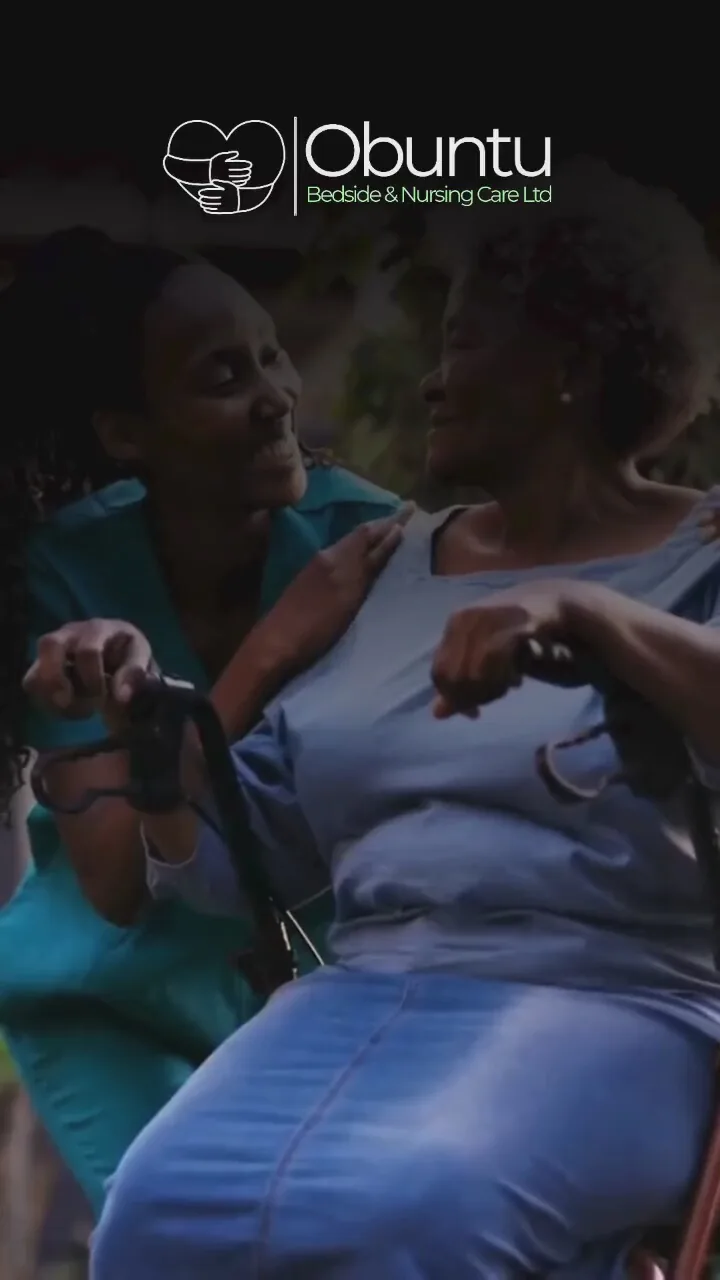
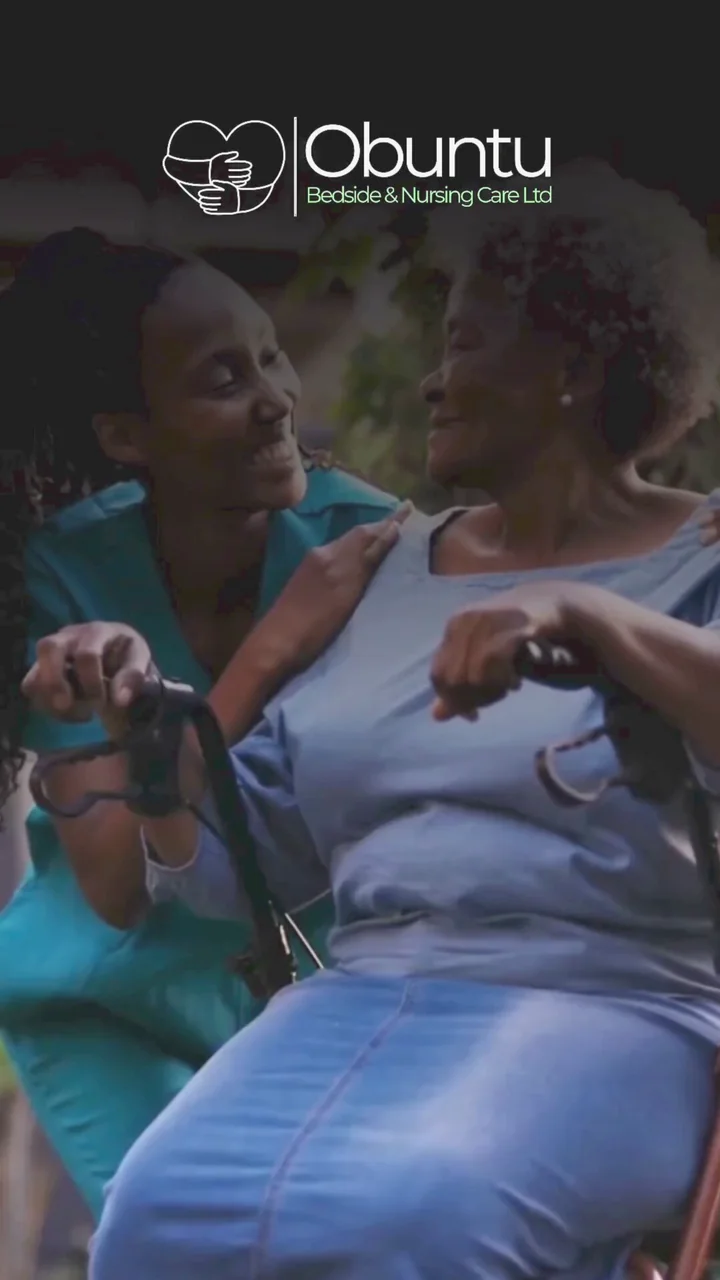
Enhance video playback UI with duration display and improved styling; update video posters

diff --git a/assets/css/styles.css b/assets/css/styles.css
@@ -743,23 +743,50 @@ p { text-wrap: pretty; }
 /* Videos: a wide message beside a tall promo, sized to the same height. Poster + play button until played (main.js). */
 .watch { display: grid; grid-template-columns: minmax(0, 3.15fr) minmax(0, 1fr); gap: clamp(20px, 3vw, 40px); align-items: start; margin-top: clamp(32px, 5vw, 56px); }
 .vid { display: grid; gap: 14px; margin: 0; }
-.vid-frame { position: relative; isolation: isolate; border-radius: var(--r-xl); overflow: hidden; background: var(--teal-950); box-shadow: var(--shadow-md); }
+.vid-frame { position: relative; isolation: isolate; border-radius: var(--r-xl); overflow: hidden; background: var(--teal-950); box-shadow: var(--shadow-lg); }
+.vid-frame::after { content: ""; position: absolute; inset: 0; z-index: 2; border-radius: inherit; box-shadow: inset 0 0 0 1px rgba(255, 255, 255, 0.13); pointer-events: none; } /* hairline edge so dark posters hold their shape */
 .vid-wide .vid-frame { aspect-ratio: 848 / 478; }
 .vid-tall .vid-frame { aspect-ratio: 9 / 16; }
-.vid video { display: block; width: 100%; height: 100%; object-fit: cover; background: var(--teal-950); }
+.vid video { display: block; width: 100%; height: 100%; object-fit: cover; background: var(--teal-950); transition: transform 700ms var(--ease-out); }
+@media (hover: hover) and (pointer: fine) { .vid:not(.is-playing) .vid-frame:hover video { transform: scale(1.035); } }
+
+/* Play button: a frosted-glass disc that fills white on hover, plus a duration chip. Rendered by JS-enabled pages only. */
 .vid-play {
-  position: absolute; inset: 0; z-index: 1; display: none; place-items: center; padding: 0; border: 0; cursor: pointer; color: var(--teal-800);
-  background: linear-gradient(180deg, rgba(1, 31, 31, 0) 50%, rgba(1, 31, 31, 0.42));
+  position: absolute; inset: 0; z-index: 1; display: none; place-items: center; padding: 0; border: 0; cursor: pointer; color: #fff;
+  background: linear-gradient(180deg, rgba(1, 31, 31, 0) 46%, rgba(1, 31, 31, 0.55)); -webkit-tap-highlight-color: transparent;
 }
 .js .vid-play { display: grid; }
 .vid.is-playing .vid-play { display: none; }
-.vid-play .ic {
-  box-sizing: content-box; width: 26px; height: 26px; padding: 22px 19px 22px 25px; border-radius: 50%; background: rgba(255, 255, 255, 0.94);
-  box-shadow: 0 14px 36px -8px rgba(1, 31, 31, 0.6); transition: transform 240ms var(--ease-out);
+.vid-disc {
+  position: relative; display: grid; place-items: center; width: 88px; height: 88px; border-radius: 50%; color: #fff;
+  background: rgba(255, 255, 255, 0.18); -webkit-backdrop-filter: blur(14px) saturate(160%); backdrop-filter: blur(14px) saturate(160%);
+  box-shadow: inset 0 0 0 1px rgba(255, 255, 255, 0.55), inset 0 1px 0 rgba(255, 255, 255, 0.4), 0 18px 44px -12px rgba(1, 31, 31, 0.7);
+  transition: transform 300ms var(--ease-out), background-color 200ms ease, color 200ms ease;
 }
-@media (hover: hover) and (pointer: fine) { .vid-play:hover .ic { transform: scale(1.07); } }
-.vid-play:active .ic { transform: scale(0.95); }
-.vid-play:focus-visible { outline-offset: -6px; border-radius: var(--r-xl); }
+.vid-disc::before { /* ring that opens up on hover */
+  content: ""; position: absolute; inset: -10px; border-radius: 50%; border: 1px solid rgba(255, 255, 255, 0.5);
+  opacity: 0; transform: scale(0.88); transition: opacity 260ms ease, transform 420ms var(--ease-out);
+}
+.vid-disc .ic { width: 32px; height: 32px; margin-left: 4px; } /* the triangle's visual centre sits left of its box */
+.vid-tall .vid-disc { width: 72px; height: 72px; }
+.vid-tall .vid-disc .ic { width: 26px; height: 26px; margin-left: 3px; }
+@media (hover: hover) and (pointer: fine) {
+  .vid-play:hover .vid-disc { transform: scale(1.07); background: #fff; color: var(--teal-800); }
+  .vid-play:hover .vid-disc::before { opacity: 1; transform: none; }
+}
+.vid-play:active .vid-disc { transform: scale(0.94); }
+.vid-play:focus-visible { outline: 3px solid #fff; outline-offset: -8px; border-radius: var(--r-xl); }
+.vid-play:focus-visible .vid-disc { background: #fff; color: var(--teal-800); }
+.vid-time {
+  position: absolute; left: 16px; bottom: 16px; padding: 5px 11px; border-radius: 999px; line-height: 1.2; font-size: 0.8125rem; font-weight: 600;
+  font-variant-numeric: tabular-nums; letter-spacing: -0.005em; background: rgba(1, 31, 31, 0.5);
+  -webkit-backdrop-filter: blur(10px); backdrop-filter: blur(10px); box-shadow: inset 0 0 0 1px rgba(255, 255, 255, 0.16);
+}
+@media (max-width: 600px) {
+  .vid-wide .vid-disc { width: 68px; height: 68px; }
+  .vid-wide .vid-disc .ic { width: 26px; height: 26px; margin-left: 3px; }
+  .vid-time { left: 12px; bottom: 12px; }
+}
 .vid figcaption { display: grid; gap: 2px; padding-inline: 4px; }
 .vid figcaption b { font-size: 1.0625rem; letter-spacing: -0.02em; }
 .vid figcaption span { color: var(--ink-3); font-size: 0.9375rem; }
@@ -841,7 +868,7 @@ p { text-wrap: pretty; }
   .fab, .fab a { transition-duration: 0.01ms; }
   .js [data-reveal] { transform: none; transition: opacity 300ms ease; transition-delay: 0s; }
   .menu, .menu-links a { transform: none; }
-  .svc, .svc-img img, .btn, .faq-icon, .vid-play .ic { transition-duration: 0.01ms; }
+  .svc, .svc-img img, .btn, .faq-icon, .vid-disc, .vid-disc::before, .vid video { transition-duration: 0.01ms; }
   .faq-a { transition: none; }
   ::view-transition-old(root), ::view-transition-new(root) { animation: none; }
 }

diff --git a/about-us/index.html b/about-us/index.html
@@ -96,9 +96,12 @@ try{var p=location.pathname;if(location.protocol.slice(0,4)==="http"&&p.slice(-1
             <source src="../assets/video/obuntu-message.mp4" type="video/mp4">
             <p>Your browser can’t play this video. <a href="../assets/video/obuntu-message.mp4">Download it</a> instead.</p>
           </video>
-          <button class="vid-play" type="button" aria-label="Play video: A message from Obuntu"><svg class="ic ic-fill" aria-hidden="true"><use href="#i-play"/></svg></button>
+          <button class="vid-play" type="button" aria-label="Play video: A message from Obuntu (1 minute 26 seconds)">
+            <span class="vid-disc"><svg class="ic ic-fill" aria-hidden="true"><use href="#i-play"/></svg></span>
+            <span class="vid-time" aria-hidden="true">1:26</span>
+          </button>
         </div>
-        <figcaption><b>A message from Obuntu</b><span>1 min 26 sec</span></figcaption>
+        <figcaption><b>A message from Obuntu</b><span>From the Obuntu team</span></figcaption>
       </figure>
       <figure class="vid vid-tall" data-reveal>
         <div class="vid-frame">
@@ -106,9 +109,12 @@ try{var p=location.pathname;if(location.protocol.slice(0,4)==="http"&&p.slice(-1
             <source src="../assets/video/obuntu-welcome.mp4" type="video/mp4">
             <p>Your browser can’t play this video. <a href="../assets/video/obuntu-welcome.mp4">Download it</a> instead.</p>
           </video>
-          <button class="vid-play" type="button" aria-label="Play video: Welcome to Obuntu"><svg class="ic ic-fill" aria-hidden="true"><use href="#i-play"/></svg></button>
+          <button class="vid-play" type="button" aria-label="Play video: Welcome to Obuntu (26 seconds)">
+            <span class="vid-disc"><svg class="ic ic-fill" aria-hidden="true"><use href="#i-play"/></svg></span>
+            <span class="vid-time" aria-hidden="true">0:26</span>
+          </button>
         </div>
-        <figcaption><b>Welcome to Obuntu</b><span>The care we provide · 26 sec</span></figcaption>
+        <figcaption><b>Welcome to Obuntu</b><span>The care we provide</span></figcaption>
       </figure>
     </div>
   </div>
